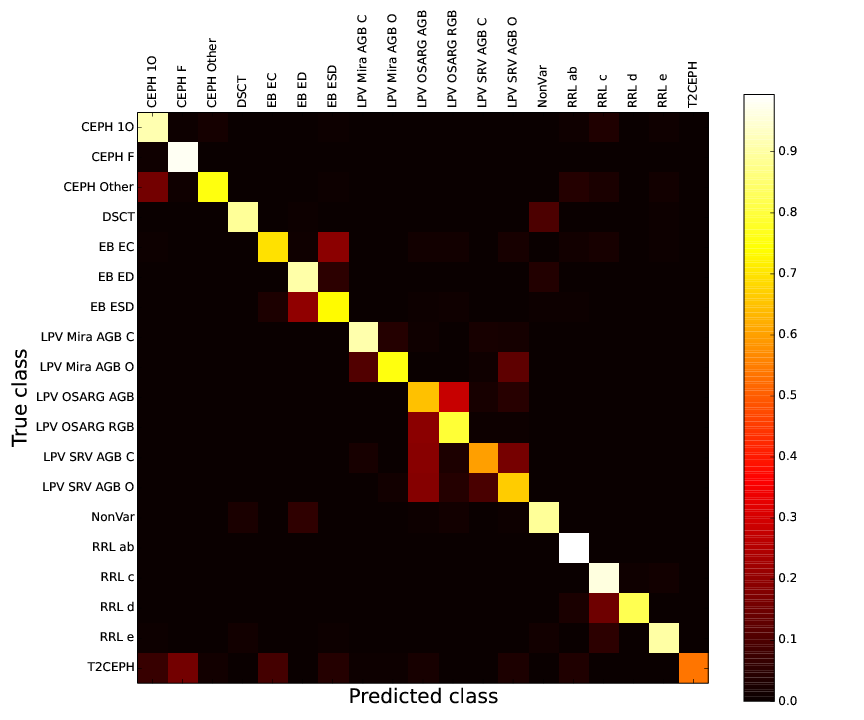
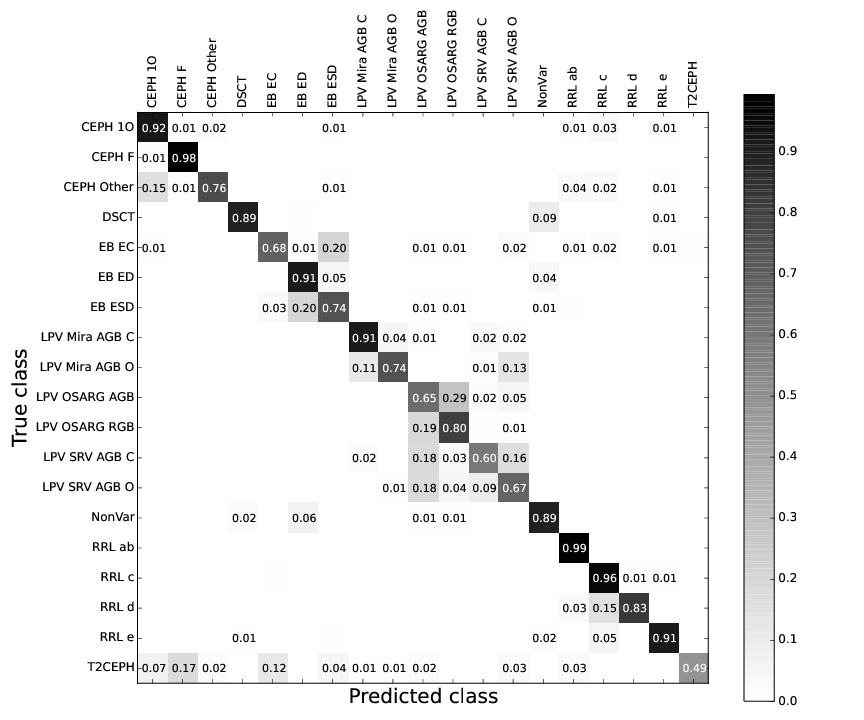
Figure updated
confusion matrix

diff --git a/README.md b/README.md
@@ -391,14 +391,13 @@ The classifier trained using only superclasses shows 98% recall and precision
 whereas the classifier trained on subclasses shows 81% recall and precision.
 The confusion in the subclass classifier was mainly caused by
 misclassification within superclasses. 
-The following figures show classification quality of these two classifiers.
-In the figures, each cell is divided by the sum of the row where
-the cell belongs to. Thus brighter the cell, higher the recall.
+The following figures show classification quality of the subclass classifier.
+Each cell shows the fraction of objects of that true class (rows) 
+assigned to the predicted classes (columns) on a gray scale.
+Thus the values on the leading diagonal are the recall rate 
+We show the number only if it is larger than or equal to 0.01.
 
 <div align="center">
-<img src="https://github.com/dwkim78/upsilon/blob/master/upsilon/datasets/images/model_map_superclass.png">
-<br>[ Map of the confusion matrix of the superclass model ]
-<br>
 <img src="https://github.com/dwkim78/upsilon/blob/master/upsilon/datasets/images/model_map_subclass.github.png">
 <br>[ Map of the confusion matrix of the subclass model ]
 </div><br>
